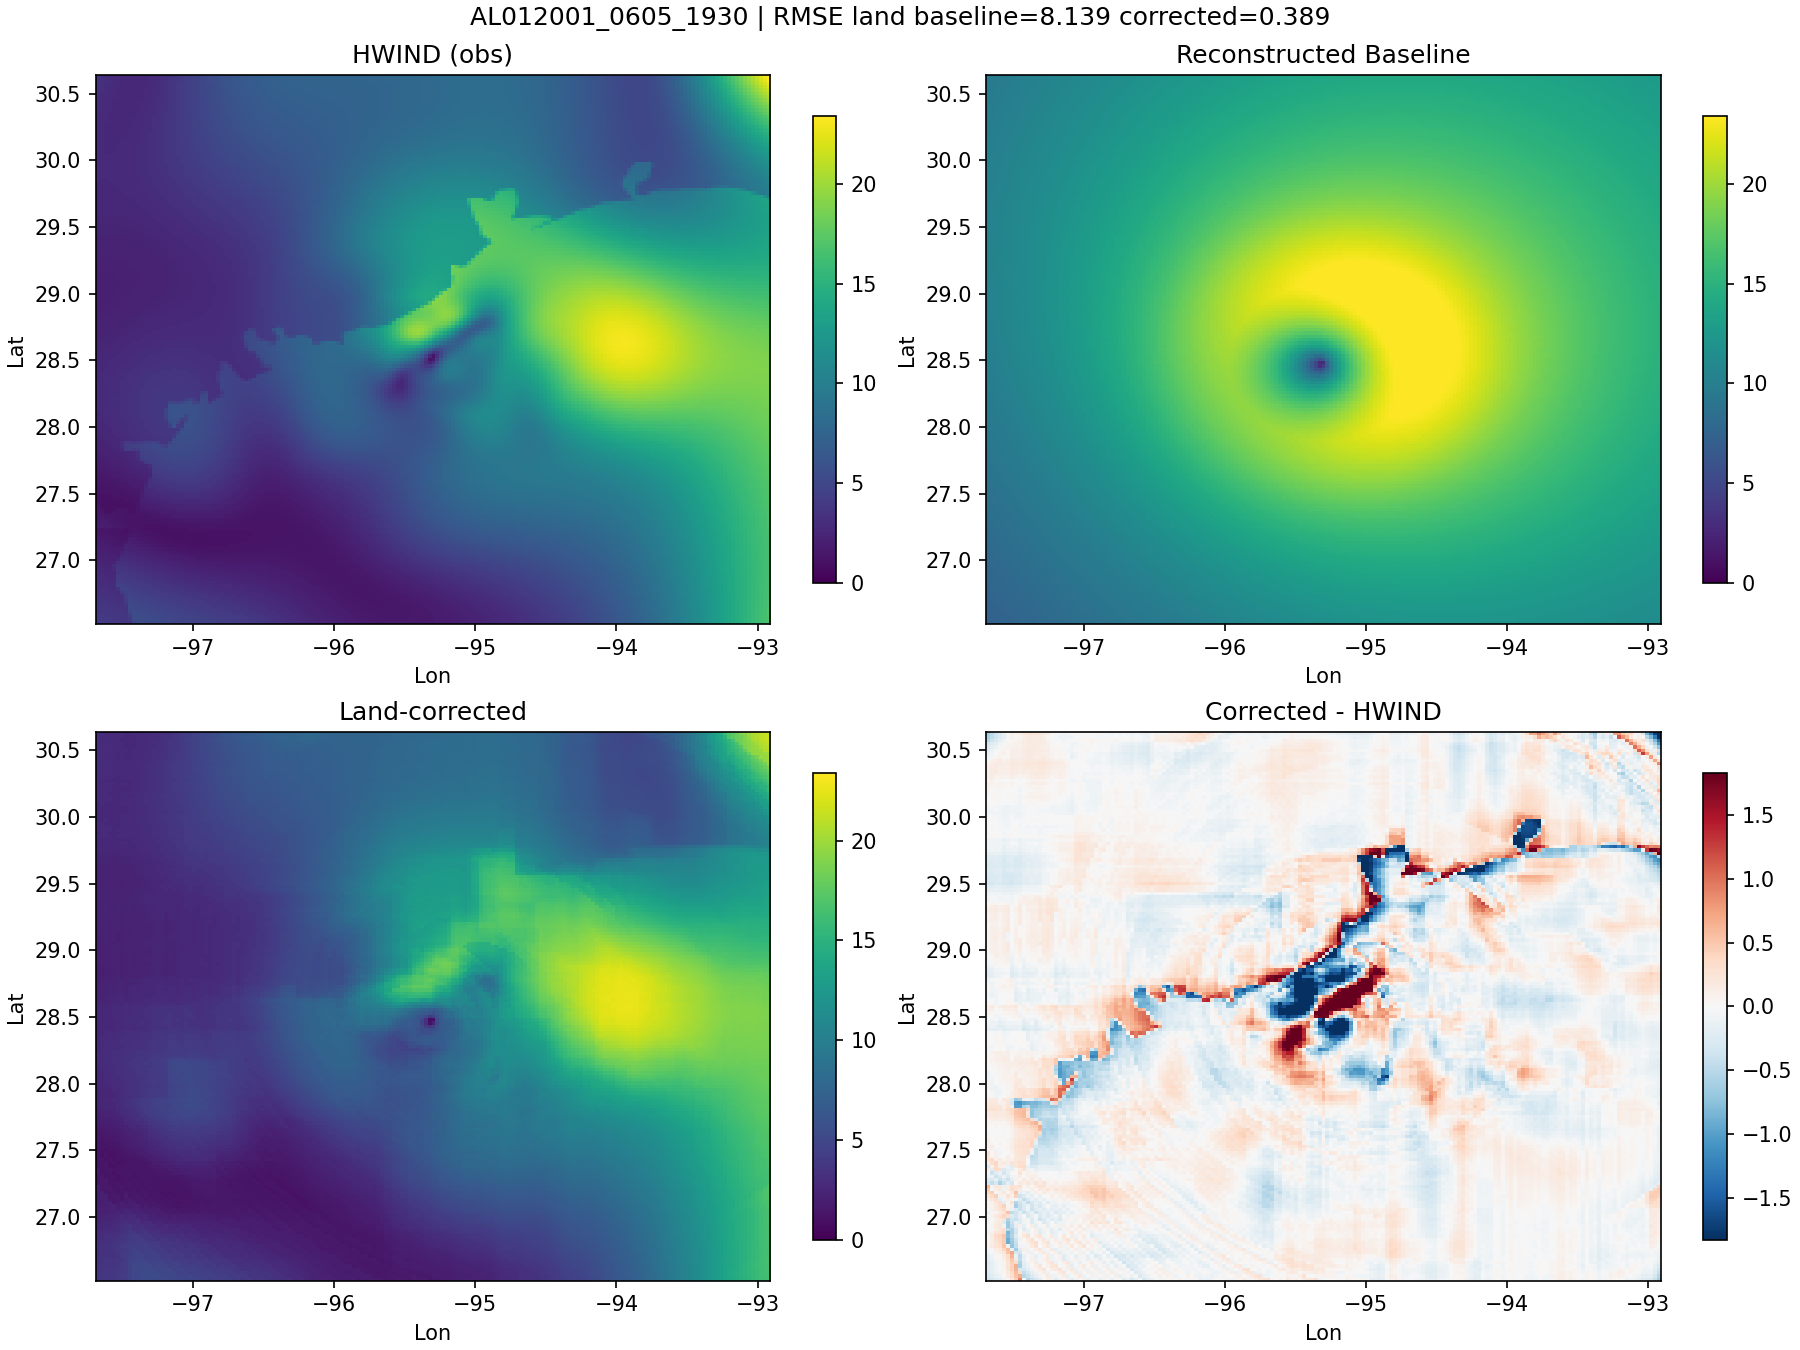
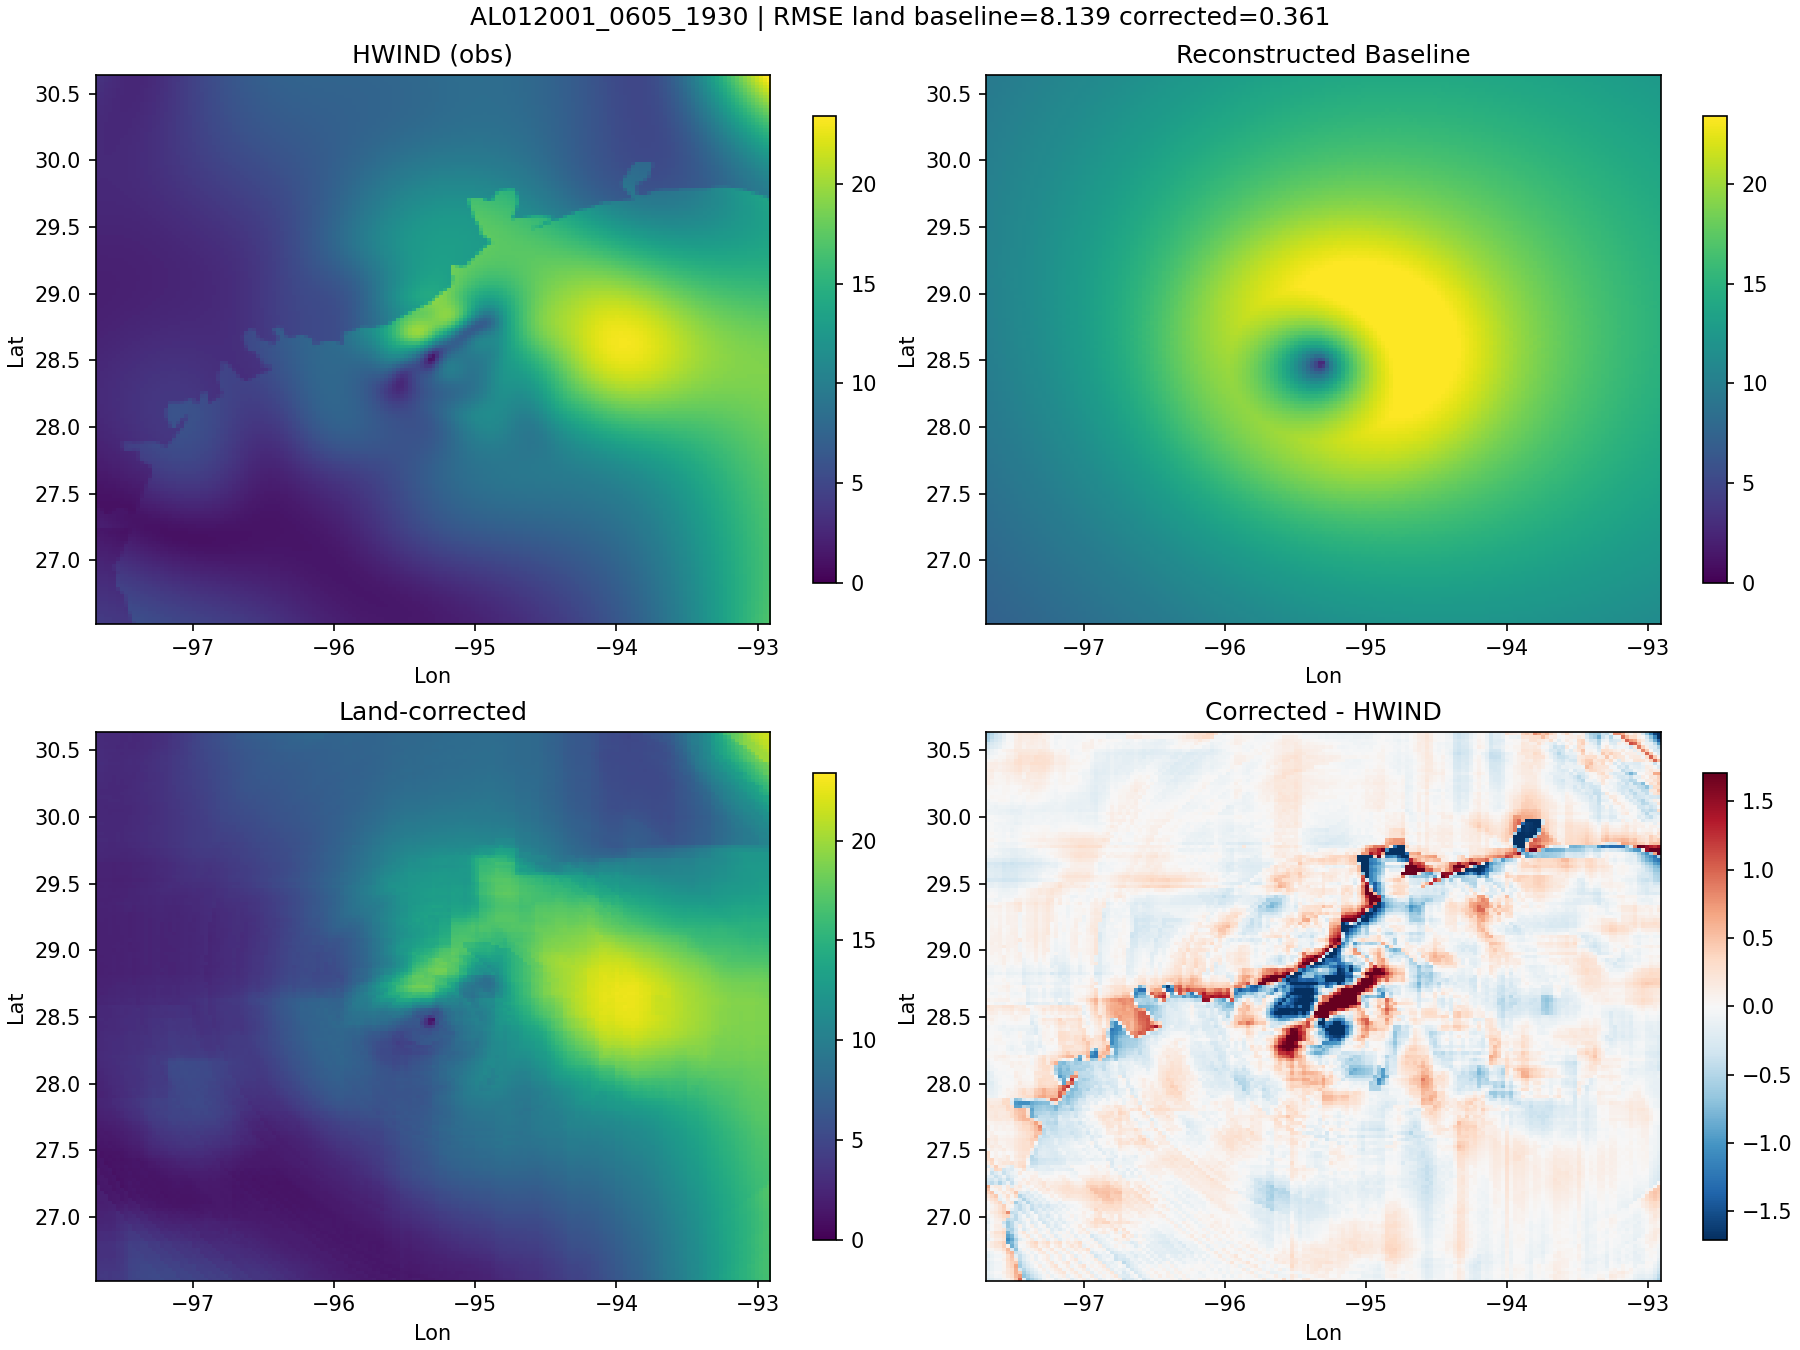
Separate pipeline vs reporting repos and link via config

diff --git a/scripts/generate_result_visuals.py b/scripts/generate_result_visuals.py
@@ -1,0 +1,175 @@
+#!/usr/bin/env python3
+import argparse
+import datetime as dt
+import json
+import os
+import pickle
+from pathlib import Path
+
+import matplotlib
+import numpy as np
+import xarray as xr
+
+matplotlib.use("Agg")
+import matplotlib.pyplot as plt
+
+
+def rmse(a, b, mask):
+    m = mask & np.isfinite(a) & np.isfinite(b)
+    if not np.any(m):
+        return None
+    return float(np.sqrt(np.mean((a[m] - b[m]) ** 2)))
+
+
+def load_model(path):
+    with open(path, "rb") as f:
+        obj = pickle.load(f)
+    return obj["model"]
+
+
+def resolve_pipeline_root(cli_value):
+    if cli_value:
+        return cli_value
+    return os.environ.get("TC_PIPELINE_ROOT", "/lustre/swx/users/3258/sandbox/systhetic_tc_downscale")
+
+
+def resolve_hwind_root(cli_value):
+    if cli_value:
+        return cli_value
+    return os.environ.get("TC_HWIND_ROOT", "/lustre/swx/sw/data_sharing/HWIND_GRIDDED")
+
+
+def main():
+    ap = argparse.ArgumentParser()
+    ap.add_argument("--repo-root", default=".")
+    ap.add_argument(
+        "--pipeline-root",
+        default=None,
+        help="Defaults to $TC_PIPELINE_ROOT or Darwin project path.",
+    )
+    ap.add_argument(
+        "--hwind-root",
+        default=None,
+        help="Defaults to $TC_HWIND_ROOT or Darwin HWIND path.",
+    )
+    ap.add_argument("--max-samples", type=int, default=2)
+    args = ap.parse_args()
+
+    repo_root = Path(args.repo_root).resolve()
+    pipe_root = Path(resolve_pipeline_root(args.pipeline_root)).resolve()
+    hwind_dir = Path(resolve_hwind_root(args.hwind_root)).resolve()
+
+    pipeline_src = pipe_root / "src"
+    import sys
+
+    if str(pipeline_src) not in sys.path:
+        sys.path.insert(0, str(pipeline_src))
+
+    from tc_land_correction.features import build_inference_rows, build_land_mask
+    from tc_land_correction.hwind import read_hwind_ascii
+    from tc_land_correction.io import interp_to_grid
+
+    model_path = pipe_root / "outputs/model/land_correction_model.pkl"
+    real_dir = pipe_root / "data/real_baseline_from_hwind"
+
+    figures_dir = repo_root / "progress/figures"
+    figures_dir.mkdir(parents=True, exist_ok=True)
+
+    model = load_model(str(model_path))
+
+    baseline_files = sorted(real_dir.glob("*_wind_footprint.nc"))[: args.max_samples]
+    samples = []
+
+    for bpath in baseline_files:
+        sample_id = bpath.name.replace("_wind_footprint.nc", "")
+        hpath = hwind_dir / sample_id
+        if not hpath.exists():
+            continue
+
+        h = read_hwind_ascii(str(hpath))
+        ds = xr.open_dataset(bpath)
+        var = "WIND_ASYM_OUTPUT" if "WIND_ASYM_OUTPUT" in ds.data_vars else list(ds.data_vars.keys())[0]
+        da = ds[var]
+        if "time" in da.dims:
+            da = da.max(dim="time", skipna=True)
+        baseline_on_h = interp_to_grid(da, h["lat"], h["lon"])
+
+        rows = build_inference_rows(
+            baseline_2d=baseline_on_h,
+            lat_1d=h["lat"],
+            lon_1d=h["lon"],
+            apply_only_land=True,
+        )
+        X, valid = rows[0], rows[1]
+        corrected = baseline_on_h.copy()
+        if X.shape[0] > 0:
+            delta = model.predict(X)
+            corrected[valid] = np.maximum(0.0, corrected[valid] + delta)
+
+        land = build_land_mask(h["lat"], h["lon"])
+        r_base = rmse(baseline_on_h, h["speed"], land)
+        r_corr = rmse(corrected, h["speed"], land)
+
+        vmax = float(np.nanpercentile(np.concatenate([h["speed"].ravel(), baseline_on_h.ravel(), corrected.ravel()]), 99))
+        diff = corrected - h["speed"]
+        dlim = float(np.nanpercentile(np.abs(diff), 99))
+
+        fig, axs = plt.subplots(2, 2, figsize=(12, 9), constrained_layout=True)
+        extent = [float(np.min(h["lon"])), float(np.max(h["lon"])), float(np.min(h["lat"])), float(np.max(h["lat"]))]
+
+        im0 = axs[0, 0].imshow(h["speed"], origin="lower", extent=extent, vmin=0, vmax=vmax, cmap="viridis", aspect="auto")
+        axs[0, 0].set_title("HWIND (obs)")
+        plt.colorbar(im0, ax=axs[0, 0], shrink=0.85)
+
+        im1 = axs[0, 1].imshow(baseline_on_h, origin="lower", extent=extent, vmin=0, vmax=vmax, cmap="viridis", aspect="auto")
+        axs[0, 1].set_title("Reconstructed Baseline")
+        plt.colorbar(im1, ax=axs[0, 1], shrink=0.85)
+
+        im2 = axs[1, 0].imshow(corrected, origin="lower", extent=extent, vmin=0, vmax=vmax, cmap="viridis", aspect="auto")
+        axs[1, 0].set_title("Land-corrected")
+        plt.colorbar(im2, ax=axs[1, 0], shrink=0.85)
+
+        im3 = axs[1, 1].imshow(diff, origin="lower", extent=extent, vmin=-dlim, vmax=dlim, cmap="RdBu_r", aspect="auto")
+        axs[1, 1].set_title("Corrected - HWIND")
+        plt.colorbar(im3, ax=axs[1, 1], shrink=0.85)
+
+        for ax in axs.ravel():
+            ax.set_xlabel("Lon")
+            ax.set_ylabel("Lat")
+
+        fig.suptitle(
+            "{} | RMSE land baseline={:.3f} corrected={:.3f}".format(
+                sample_id,
+                r_base if r_base is not None else float("nan"),
+                r_corr if r_corr is not None else float("nan"),
+            ),
+            fontsize=12,
+        )
+
+        out_name = "{}_compare.png".format(sample_id)
+        out_path = figures_dir / out_name
+        fig.savefig(out_path, dpi=150)
+        plt.close(fig)
+
+        samples.append(
+            {
+                "sample_id": sample_id,
+                "image": "figures/{}".format(out_name),
+                "baseline_rmse_land": r_base,
+                "corrected_rmse_land": r_corr,
+                "improvement_rmse_land": None if (r_base is None or r_corr is None) else (r_base - r_corr),
+            }
+        )
+
+    summary = {
+        "updated_utc": dt.datetime.now(dt.timezone.utc).strftime("%Y-%m-%d %H:%M UTC"),
+        "n_samples": len(samples),
+        "samples": samples,
+    }
+    out_json = repo_root / "progress/results_summary.json"
+    with open(out_json, "w") as f:
+        json.dump(summary, f, indent=2, sort_keys=True)
+
+
+if __name__ == "__main__":
+    main()

diff --git a/scripts/update_progress_report.py b/scripts/update_progress_report.py
@@ -33,6 +33,12 @@ def load_json(path):
         return json.load(f)
 
 
+def resolve_pipeline_root(cli_value):
+    if cli_value:
+        return cli_value
+    return os.environ.get("TC_PIPELINE_ROOT", "/lustre/swx/users/3258/sandbox/systhetic_tc_downscale")
+
+
 def build_report(repo_root, pipeline_root):
     now = dt.datetime.now(dt.timezone.utc).strftime("%Y-%m-%d %H:%M UTC")
 
@@ -43,12 +49,14 @@ def build_report(repo_root, pipeline_root):
 
     metrics_path = os.path.join(model_dir, "train_metrics.json")
     model_path = os.path.join(model_dir, "land_correction_model.pkl")
+    results_summary_path = os.path.join(repo_root, "progress", "results_summary.json")
 
     real_count = count_files(os.path.join(real_dir, "*_wind_footprint.nc"))
     corr_count = count_files(os.path.join(corr_dir, "*_landcorr.nc"))
     smoke_count = count_files(os.path.join(smoke_dir, "*_landcorr.nc"))
 
     metrics = load_json(metrics_path)
+    results = load_json(results_summary_path)
 
     latest_artifact_time = latest_mtime(
         [metrics_path, model_path]
@@ -57,11 +65,11 @@ def build_report(repo_root, pipeline_root):
     )
 
     lines = []
-    lines.append("# TC Synthetic Progress Dashboard")
+    lines.append("# TC Synthetic Project Dashboard")
     lines.append("")
     lines.append("Last updated: **{}**".format(now))
     lines.append("")
-    lines.append("## Snapshot")
+    lines.append("## Progress")
     lines.append("")
     lines.append("| Item | Value |")
     lines.append("|---|---:|")
@@ -70,7 +78,8 @@ def build_report(repo_root, pipeline_root):
     lines.append("| Smoke corrected fields | {} |".format(smoke_count))
     lines.append("| Latest artifact time | {} |".format(fmt_time(latest_artifact_time)))
     lines.append("")
-    lines.append("## Quick Visualization")
+
+    lines.append("### Artifact Overview")
     lines.append("")
     lines.append("```mermaid")
     lines.append("pie title Artifact Counts")
@@ -79,7 +88,8 @@ def build_report(repo_root, pipeline_root):
     lines.append('    "Smoke corrected" : {}'.format(smoke_count))
     lines.append("```")
     lines.append("")
-    lines.append("## Training Metrics")
+
+    lines.append("### Training Metrics")
     lines.append("")
     if metrics:
         for key in [
@@ -97,6 +107,29 @@ def build_report(repo_root, pipeline_root):
     else:
         lines.append("- No `train_metrics.json` found yet.")
     lines.append("")
+
+    lines.append("## Results")
+    lines.append("")
+    if not results or not results.get("samples"):
+        lines.append("- No visual results generated yet.")
+        lines.append("- Run: `scripts/generate_result_visuals.py` then update this report.")
+    else:
+        lines.append("Generated result samples: **{}**".format(results.get("n_samples", len(results["samples"]))))
+        lines.append("")
+        for s in results["samples"]:
+            sid = s.get("sample_id", "unknown")
+            rb = s.get("baseline_rmse_land")
+            rc = s.get("corrected_rmse_land")
+            imp = s.get("improvement_rmse_land")
+            lines.append("### {}".format(sid))
+            lines.append("")
+            lines.append("- Land RMSE baseline: `{}`".format("n/a" if rb is None else round(rb, 4)))
+            lines.append("- Land RMSE corrected: `{}`".format("n/a" if rc is None else round(rc, 4)))
+            lines.append("- RMSE improvement: `{}`".format("n/a" if imp is None else round(imp, 4)))
+            lines.append("")
+            lines.append("![{}]({})".format(sid, s.get("image", "")))
+            lines.append("")
+
     lines.append("## Pipeline Paths")
     lines.append("")
     lines.append("- Pipeline root: `{}`".format(pipeline_root))
@@ -121,6 +154,7 @@ def build_report(repo_root, pipeline_root):
                 "smoke_corrected_count": smoke_count,
                 "latest_artifact_utc": fmt_time(latest_artifact_time),
                 "metrics": metrics,
+                "results_summary": results,
                 "pipeline_root": pipeline_root,
             },
             f,
@@ -134,12 +168,14 @@ def main():
     ap.add_argument("--repo-root", default=".")
     ap.add_argument(
         "--pipeline-root",
-        default="/lustre/swx/users/3258/sandbox/systhetic_tc_downscale",
+        default=None,
+        help="Defaults to $TC_PIPELINE_ROOT or Darwin project path.",
     )
     args = ap.parse_args()
 
     repo_root = str(Path(args.repo_root).resolve())
-    build_report(repo_root, args.pipeline_root)
+    pipeline_root = resolve_pipeline_root(args.pipeline_root)
+    build_report(repo_root, pipeline_root)
 
 
 if __name__ == "__main__":

diff --git a/README.md b/README.md
@@ -1,19 +1,35 @@
 # tc_synthetic
 
-Repository for tracking project progress and quick result visualization for tropical cyclone synthetic wind land-correction.
+GitHub repository for **progress reporting and quick result visualization only**.
+
+This repo does not contain the training/apply pipeline code. It reads artifacts from:
+- `/lustre/swx/users/3258/sandbox/systhetic_tc_downscale`
 
 ## Dashboard
 
 - [Current Status](progress/STATUS.md)
 
-## Update Command (on Darwin)
+## Role Split
+
+- `systhetic_tc_downscale`: source-of-truth pipeline (data prep, training, apply, outputs)
+- `tc_synthetic` (this repo): dashboard markdown, figures, and runlog for GitHub sharing
+
+## Configure Pipeline Link (on Darwin)
+
+Edit:
+- `config/pipeline_paths.env`
+
+Default values:
+- `TC_PIPELINE_ROOT=/lustre/swx/users/3258/sandbox/systhetic_tc_downscale`
+- `TC_PYTHON_BIN=/lustre/swx/sw/anaconda-envs-pool/jupyter-notebook/shwang-tcsynthetic/bin/python`
+- `TC_HWIND_ROOT=/lustre/swx/sw/data_sharing/HWIND_GRIDDED`
+
+## Update Dashboard
 
 ```bash
-workgroup -g swx -C "cd /lustre/swx/users/3258/sandbox/tc_synthetic; \
-  PYTHONNOUSERSITE=1 /lustre/swx/sw/anaconda-envs-pool/jupyter-notebook/shwang-tcsynthetic/bin/python \
-  scripts/update_progress_report.py --pipeline-root /lustre/swx/users/3258/sandbox/systhetic_tc_downscale"
+workgroup -g swx
+cd /lustre/swx/users/3258/sandbox/tc_synthetic
+scripts/update_and_push.sh
 ```
 
-## Source Pipeline
-
-- `/lustre/swx/users/3258/sandbox/systhetic_tc_downscale`
+This command regenerates visuals + status from the pipeline outputs, then commits and pushes only `progress/` changes.

diff --git a/progress/STATUS.md b/progress/STATUS.md
@@ -1,6 +1,6 @@
 # TC Synthetic Project Dashboard
 
-Last updated: **2026-03-06 03:08 UTC**
+Last updated: **2026-04-16 20:03 UTC**
 
 ## Progress
 
@@ -9,7 +9,7 @@ Last updated: **2026-03-06 03:08 UTC**
 | Real baseline fields generated | 1 |
 | Corrected synthetic fields | 0 |
 | Smoke corrected fields | 1 |
-| Latest artifact time | 2026-03-05 17:45 UTC |
+| Latest artifact time | 2026-03-06 22:13 UTC |
 
 ### Artifact Overview
 
@@ -28,7 +28,7 @@ pie title Artifact Counts
 - `n_samples`: `27885`
 - `n_train`: `27885`
 - `n_val`: `0`
-- `train_rmse`: `0.38896646983352734`
+- `train_rmse`: `0.36123000859155135`
 
 ## Results
 
@@ -37,8 +37,8 @@ Generated result samples: **1**
 ### AL012001_0605_1930
 
 - Land RMSE baseline: `8.1389`
-- Land RMSE corrected: `0.389`
-- RMSE improvement: `7.7499`
+- Land RMSE corrected: `0.3612`
+- RMSE improvement: `7.7776`
 
 ![AL012001_0605_1930](figures/AL012001_0605_1930_compare.png)
 
